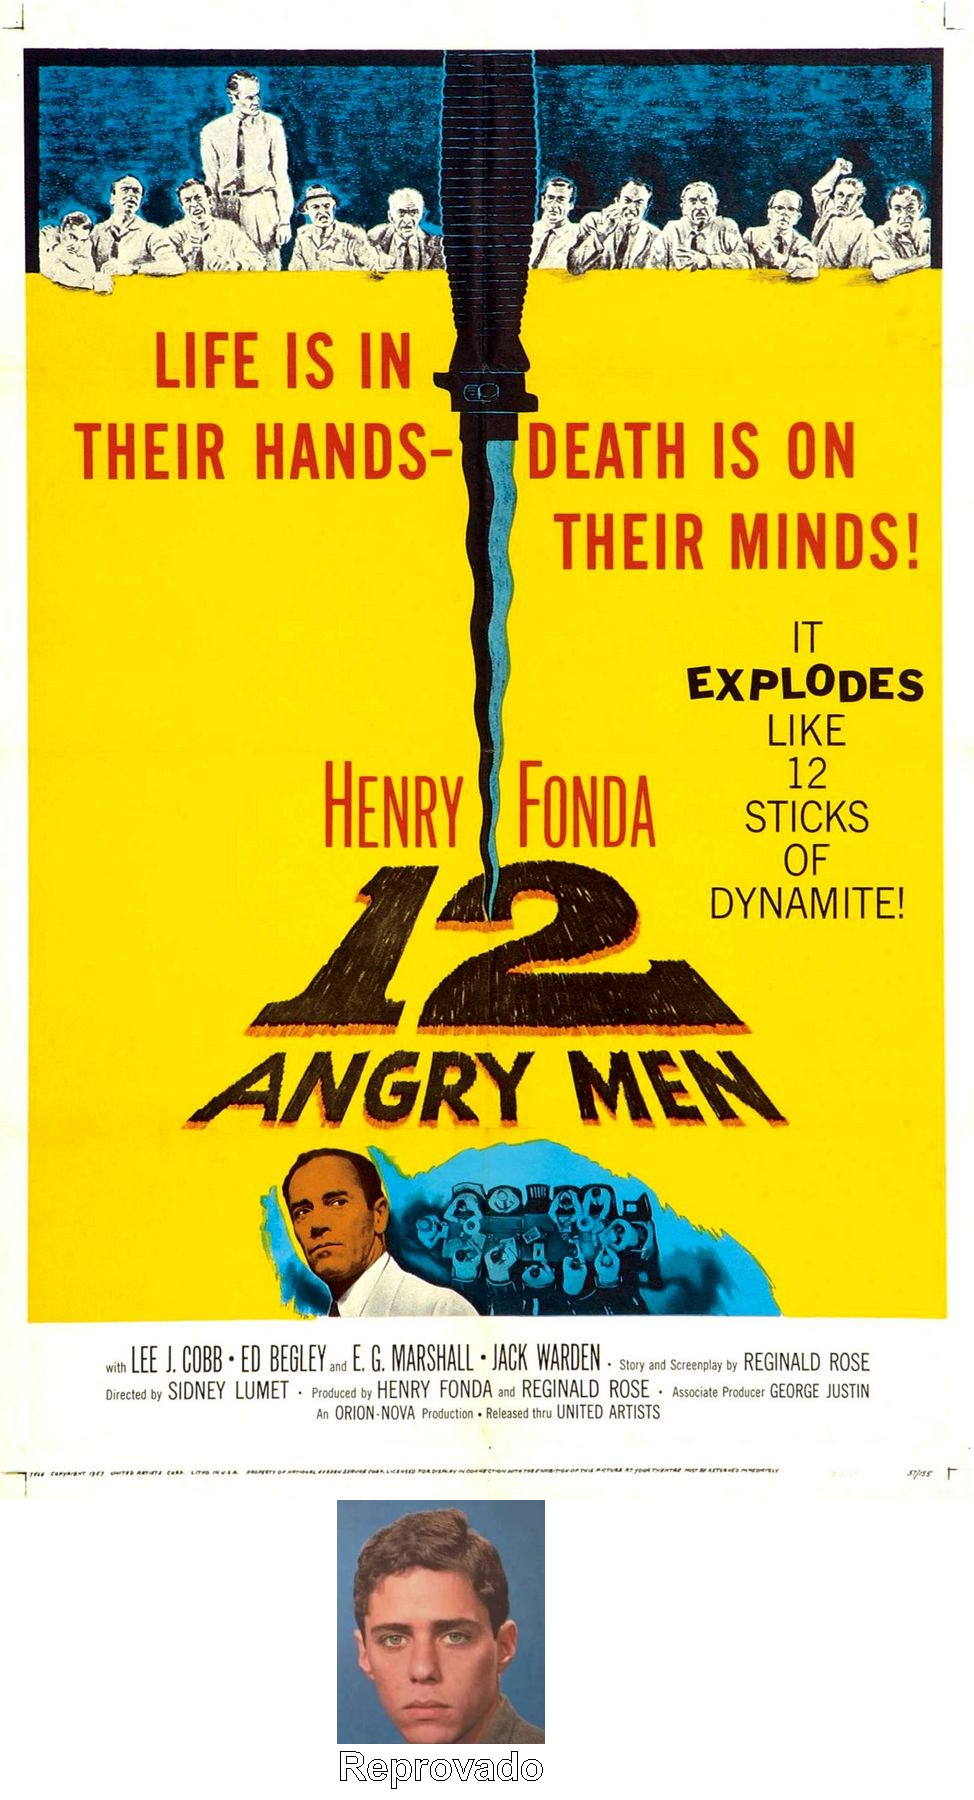
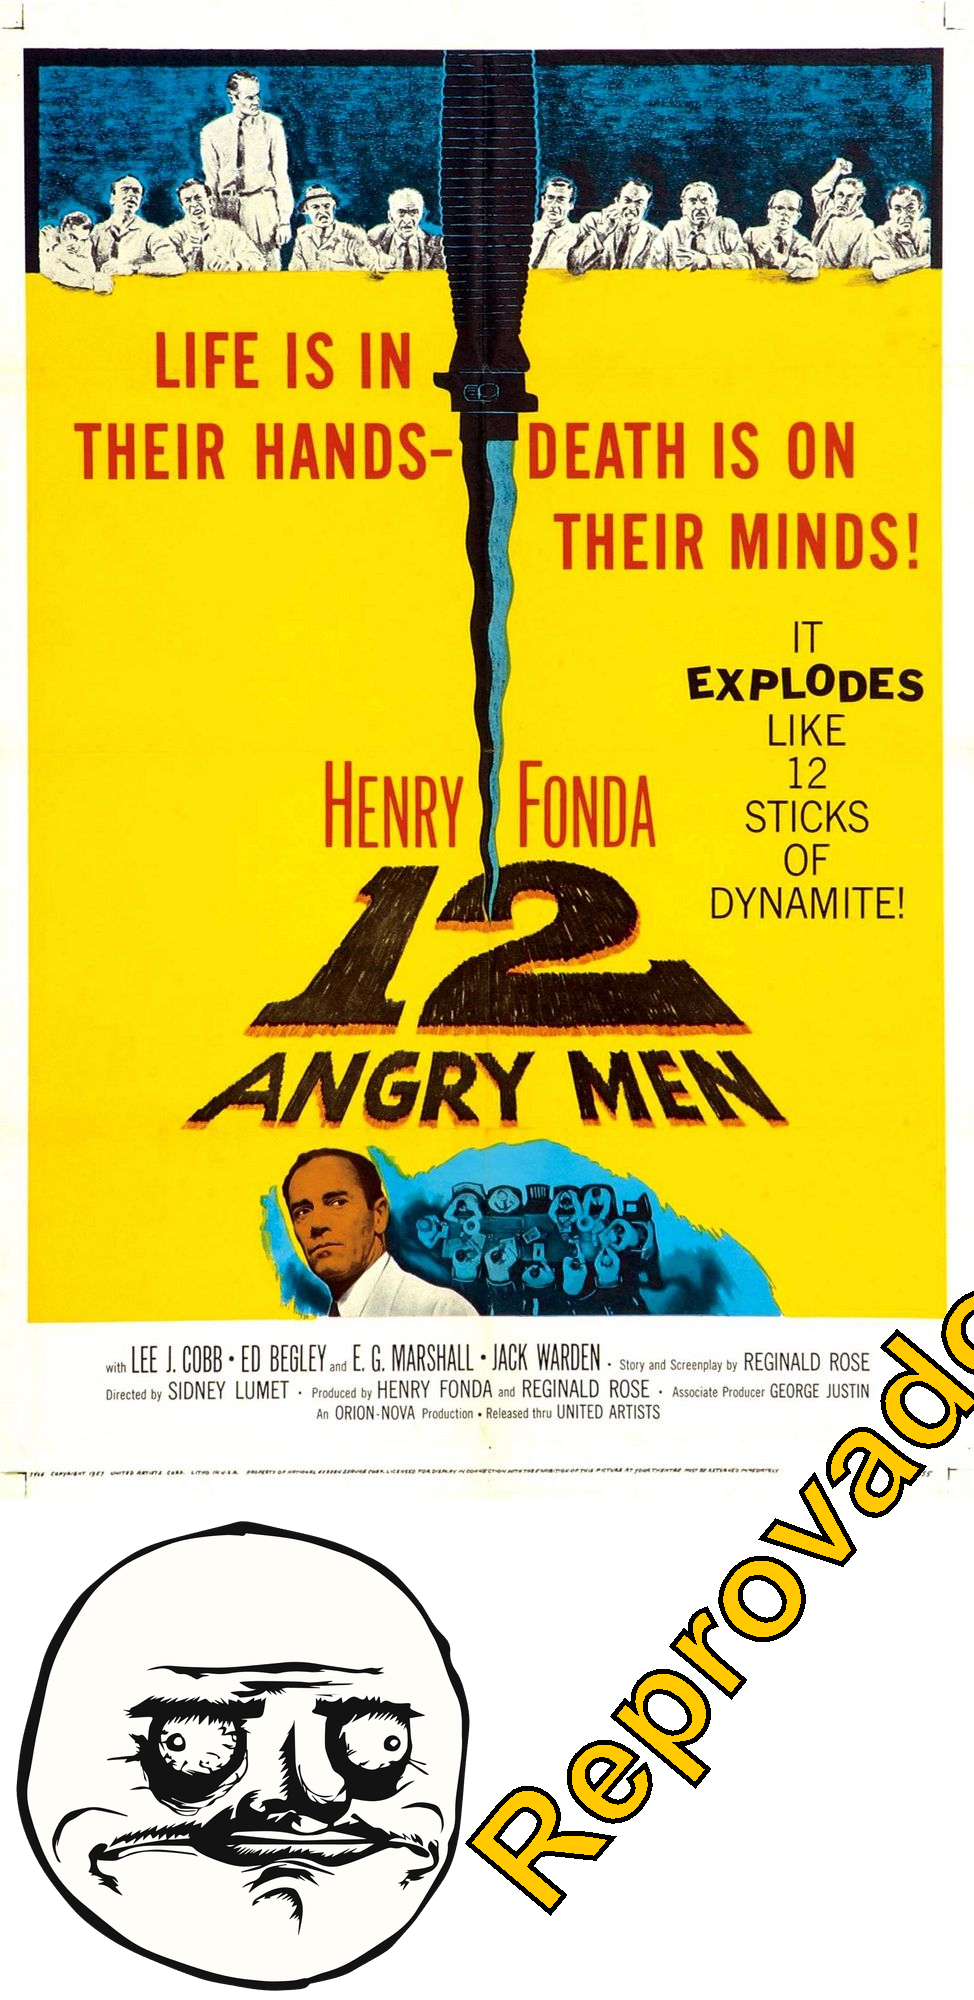
ajuste nos stickers

diff --git a/AluraStickers/src/GeradorFigurinhas.java b/AluraStickers/src/GeradorFigurinhas.java
@@ -11,7 +11,7 @@ import java.awt.Color;
 import java.awt.Font;
 import java.awt.font.TextLayout;
 import java.awt.font.FontRenderContext;
-
+import java.awt.BasicStroke;
 public class GeradorFigurinhas {
     // relançando a exception
     // só teste
@@ -44,14 +44,14 @@ public class GeradorFigurinhas {
       // lendo de diretorio
       //BufferedImage imagemOriginal = ImageIO.read(new File("C://Users/sdnxf/Documents/NetBeansProjects/Imersao-Java-Stickers-Alura/AluraStickers/entrada/filme.jpg"));
 
-      BufferedImage aprovado = ImageIO.read(new File("C://Users/sdnxf/Documents/NetBeansProjects/Imersao-Java-Stickers-Alura/AluraStickers/img/aprovado-corte.png"));
+      BufferedImage aprovado = ImageIO.read(new File("C://Users/sdnxf/Documents/NetBeansProjects/Imersao-Java-Stickers-Alura/AluraStickers/img/aprovado.png"));
 
-      BufferedImage reprovado = ImageIO.read(new File("C://Users/sdnxf/Documents/NetBeansProjects/Imersao-Java-Stickers-Alura/AluraStickers/img/reprovado-corte.png"));
+      BufferedImage reprovado = ImageIO.read(new File("C://Users/sdnxf/Documents/NetBeansProjects/Imersao-Java-Stickers-Alura/AluraStickers/img/reprovado.png"));
 
       // cria nova imagem em memória com transparência e com tamnho novo
       int largura = imagemOriginal.getWidth();
       int altura = imagemOriginal.getHeight();
-      int novaAltura = altura + 300;
+      int novaAltura = altura + 500;
 
 
       BufferedImage novaImagem = new BufferedImage(largura, novaAltura, BufferedImage.TRANSLUCENT);
@@ -65,30 +65,40 @@ public class GeradorFigurinhas {
       System.out.println(estado);
       if(estado.equals("aprovado")){
         s = "Aprovado";
-        copiaImagem.drawImage(aprovado, (largura / 2) - 150, altura, null);
+        copiaImagem.drawImage(aprovado, (largura / 2) - 500, altura - 200, null);
       }else if(estado.equals("reprovado")){
         s = "Reprovado";
-        copiaImagem.drawImage(reprovado, (largura / 2) - 150, altura, null);
+        copiaImagem.drawImage(reprovado, (largura / 2) - 500, altura, null);
       }
 
       
       // Config font
-      var fonte = new Font(Font.SANS_SERIF, Font.BOLD, 40);
+      var fonte = new Font(Font.SANS_SERIF, Font.BOLD, 150);
       copiaImagem.setFont(fonte);
       
 
-      copiaImagem.setColor(Color.WHITE);
+      copiaImagem.setColor(Color.ORANGE);
+      copiaImagem.rotate(Math.toRadians(-50), (largura / 2) + 50, novaAltura - 150);
 
       // escrever uma frase na nova imagem
-      copiaImagem.drawString(s, (largura / 2) - 150, novaAltura - 20);
+      copiaImagem.drawString(s, (largura / 2), novaAltura - 100);
+
+
       if(!s.equals("")){
+        // cria uma borda
         TextLayout tl = new TextLayout(s, fonte, copiaImagem.getFontRenderContext());
         Shape shape = tl.getOutline(null);
-        copiaImagem.translate((largura / 2) - 150, novaAltura - 20);
+        copiaImagem.translate((largura / 2), novaAltura - 100);
+        
         copiaImagem.setColor(Color.BLACK);
         copiaImagem.draw(shape);
-      }
 
+        // Aumenta a borda
+        BasicStroke wideStroke = new BasicStroke(5.0f);
+        copiaImagem.setStroke(wideStroke);
+        copiaImagem.draw(shape);
+      }
+     
       // escrever a nova imagem em um arquivo
       //ImageIO.write(novaImagem, "png", new File("C://Users/sdnxf/Documents/NetBeansProjects/Imersao-Java-Stickers-Alura/AluraStickers/saida/figurinha.png"));
 

diff --git a/AluraStickers/src/App.java b/AluraStickers/src/App.java
@@ -72,7 +72,7 @@ public class App {
             }
             geradorFigurinha.criarFigurinhas(inputStream, nomeArquivo, estado);
 
-            System.out.println(titulo + estado);
+            System.out.println(titulo + filme.get("imDbRating"));
             System.out.println();
             
             //System.out.println(filme.get("imDbRating") + "[char]::ConvertFromUtf32(0x2B50)");

diff --git a/README.md b/README.md
@@ -1,26 +1,14 @@
 
 <h1 style="display: inline-block;" align="center">Imersão Java da Alura</h1>
-
-<p align="center">
-<img src="http://img.shields.io/static/v1?label=STATUS&message=EM%20DESENVOLVIMENTO&color=GREEN&style=for-the-badge">
-</p>
-
-<h3 align="center">Desafio - Aula 1</h3>
-<p align="center">
 <img align="center" width="300" height="300" src="https://github.com/LucasCosta0011/Imersao-Java-Stickers-Alura/blob/main/desafio-terminal.png">
-</p>
-
-<h3 align="center">Desafio - Aula 2</h3>
-<p align="center">
-<img align="center" width="300" height="300" margin="10" src="https://github.com/LucasCosta0011/Imersao-Java-Stickers-Alura/blob/main/The%20Dark%20Knight.png">
-<img align="center" width="300" height="300" margin="10" src="https://github.com/LucasCosta0011/Imersao-Java-Stickers-Alura/blob/main/12%20Angry%20Men.png">
-</p>
+<h1 align="center">
+<img src="http://img.shields.io/static/v1?label=STATUS&message=EM%20DESENVOLVIMENTO&color=GREEN&style=for-the-badge">
+</h1>
 
 ##
-<h4 align="center">Tópicos</h3>
-<h4 align="center">Aula 1 - Consumindo API de Filmes. ✔</h4>
-<h4 align="center">Aula 2 - Gerando figurinhas para WhatsApp. ✔</h4>
-<h4 align="center">Aula 3 - Ligando as pontas e refatoração.</h4>
-<h4 align="center">Aula 4 - Criando a própria API com Spring.</h4>
-<h4 align="center">Aula 5 - Publicando API no Cloud.</h4>
-
+### Aula 1 - Consumindo API de Filmes. ✔
+### Aula 2 - Gerando figurinhas para WhatsApp. 
+### Aula 3 - Ligando as pontas e refatoração.
+### Aula 4 - Criando a própria API com Spring.
+### Aula 5 - Publicando API no Cloud.
+##
